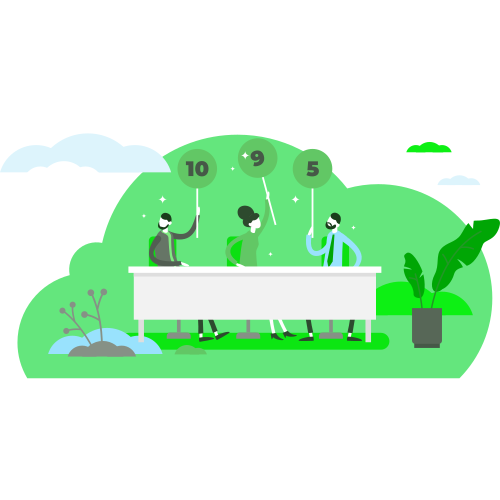
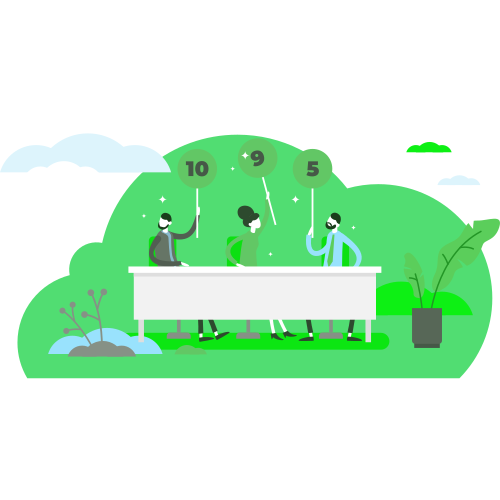
new image uploaded and some colors changes

Changed region(s): [[0.81, 0.42, 1.0, 0.6], [0.63, 0.48, 0.69, 0.54], [0.33, 0.45, 0.36, 0.51]]

diff --git a/src/components/FinishComponent.jsx b/src/components/FinishComponent.jsx
@@ -24,12 +24,12 @@ const FinishComponent = () => {
 
     return (
         <div className="w-5/6 h-full p-4 m-4 bg-white gap-y-8 rounded-3xl flex flex-col items-center justify-center shadow-xl border-2 border-gray-400">
-            <div className="text-3xl md:text-4xl font-bold text-[#44E14A]">Congratulations!</div>
+            <div className="text-3xl md:text-4xl font-bold text-[#5BCE5B]">Congratulations!</div>
             <div className="text-md md:text-xl font-medium text-gray-700">{getGreetingMessage()}</div>
             <NumbersCounter n={Number.parseInt(scorePercentage)} />
             <div className="text-lg text-gray-500">Your score: {score}/6</div>
             <div className='flex gap-4 lg:gap-0 lg:w-1/3 justify-between items-center'>
-                <button onClick={handleTryAgain} className='p-4 text-md md:text-lg md:w-[140px] font-semibold rounded-lg border-2 border-[#44E14A] hover:bg-[#44E14A] hover:text-white transition-all duration-500'>Try Again</button>
+                <button onClick={handleTryAgain} className='p-4 text-md md:text-lg md:w-[140px] font-semibold rounded-lg border-2 border-[#5BCE5B] hover:bg-[#5BCE5B] hover:text-white transition-all duration-500'>Try Again</button>
                 <button onClick={handleWindowClose} className='p-4 text-md md:text-lg text-white md:w-[140px] font-semibold rounded-lg border-2 border-red-500 bg-red-500 hover:bg-red-400 transition-all duration-500'>Exit</button>
             </div>
         </div>

diff --git a/src/components/InstructionsComponent.jsx b/src/components/InstructionsComponent.jsx
@@ -8,7 +8,7 @@ const InstructionsComponent = () => {
   return (
     <div className="w-5/6 h-full p-4 bg-white rounded-3xl gap-y-2 flex flex-col items-center justify-center shadow-xl border-2 border-gray-400">
 
-      <h2 className="font-bold text-[35px] lg:text-[40] text-[#44E14A] mb-4 text-center">
+      <h2 className="font-bold text-[35px] lg:text-[40] text-[#5BCE5B] mb-4 text-center">
         Quiz Instructions
       </h2>
 
@@ -24,7 +24,7 @@ const InstructionsComponent = () => {
         ⚠ Once you start the quiz, you cannot pause or restart!
       </p>
 
-      <button onClick={() => setComponentsIndex(2)} className="bg-[#44E14A] text-white px-6 py-3 rounded-xl text-md lg:text-lg font-semibold hover:bg-[#36b53c] transition duration-300">
+      <button onClick={() => setComponentsIndex(2)} className="bg-[#5BCE5B] text-white px-6 py-3 rounded-xl text-md lg:text-lg font-semibold hover:bg-[#36b53c] transition duration-300">
         I Understand, Start Quiz
       </button>
     </div>

diff --git a/src/components/WelcomeComponent.jsx b/src/components/WelcomeComponent.jsx
@@ -8,7 +8,7 @@ const WelcomeComponent = () => {
 
   return (
     <div className="w-5/6 h-full p-4 bg-white rounded-3xl flex flex-col items-center justify-center shadow-xl border-2 border-gray-400">
-      <h1 className="font-bold text-[35px] lg:text-[40px] text-[#44E14A] mb-4 text-center">
+      <h1 className="font-bold text-[35px] lg:text-[40px] text-[#5BCE5B] mb-4 text-center">
         Welcome to your Quiz App
       </h1>
 
@@ -21,7 +21,7 @@ const WelcomeComponent = () => {
         <img src={QuizImg} alt="Quiz Image" className="w-3/4" />
       </div>
 
-      <button onClick={() => setComponentsIndex(1)} className="bg-[#44E14A] text-white px-6 py-3 rounded-xl text-lg font-semibold hover:bg-[#36b53c] transition duration-500">
+      <button onClick={() => setComponentsIndex(1)} className="bg-[#5BCE5B] text-white px-6 py-3 rounded-xl text-lg font-semibold hover:bg-[#36b53c] transition duration-500">
         Start Quiz
       </button>
     </div>

diff --git a/src/components/QuestionsComponent.jsx b/src/components/QuestionsComponent.jsx
@@ -58,7 +58,7 @@ const QuestionsComponent = () => {
             </FormControl>
             
             <div className='w-full h-full flex items-end justify-end px-12'>
-            <button disabled={selectedAnswer === '' ? true : false} className="bg-[#44E14A] m-4 text-white px-4 md:px-6 py-3 rounded-xl text-lg font-semibold hover:bg-[#36b53c] transition duration-500" onClick={handleAnswerSubmit}>Submit answer</button>
+            <button disabled={selectedAnswer === '' ? true : false} className="bg-[#5BCE5B] m-4 text-white px-4 md:px-6 py-3 rounded-xl text-lg font-semibold hover:bg-[#36b53c] transition duration-500" onClick={handleAnswerSubmit}>Submit answer</button>
             </div>
         </div>
     )

diff --git a/src/components/NumberCounter.jsx b/src/components/NumberCounter.jsx
@@ -28,7 +28,7 @@ const NumbersCounter = ({ n }) => {
           cy="100"
           r={radius}
           fill="transparent"
-          stroke="#44E14A"
+          stroke="#5BCE5B"
           strokeWidth="12"
           strokeDasharray={circumference}
           strokeDashoffset={number.to(
@@ -39,7 +39,7 @@ const NumbersCounter = ({ n }) => {
         />
       </svg>
 
-      <animated.div className="absolute text-5xl font-bold text-[#44E14A]">
+      <animated.div className="absolute text-5xl font-bold text-[#5BCE5B]">
         {number.to((val) => `${Math.round(val)}%`)}
       </animated.div>
     </div>
